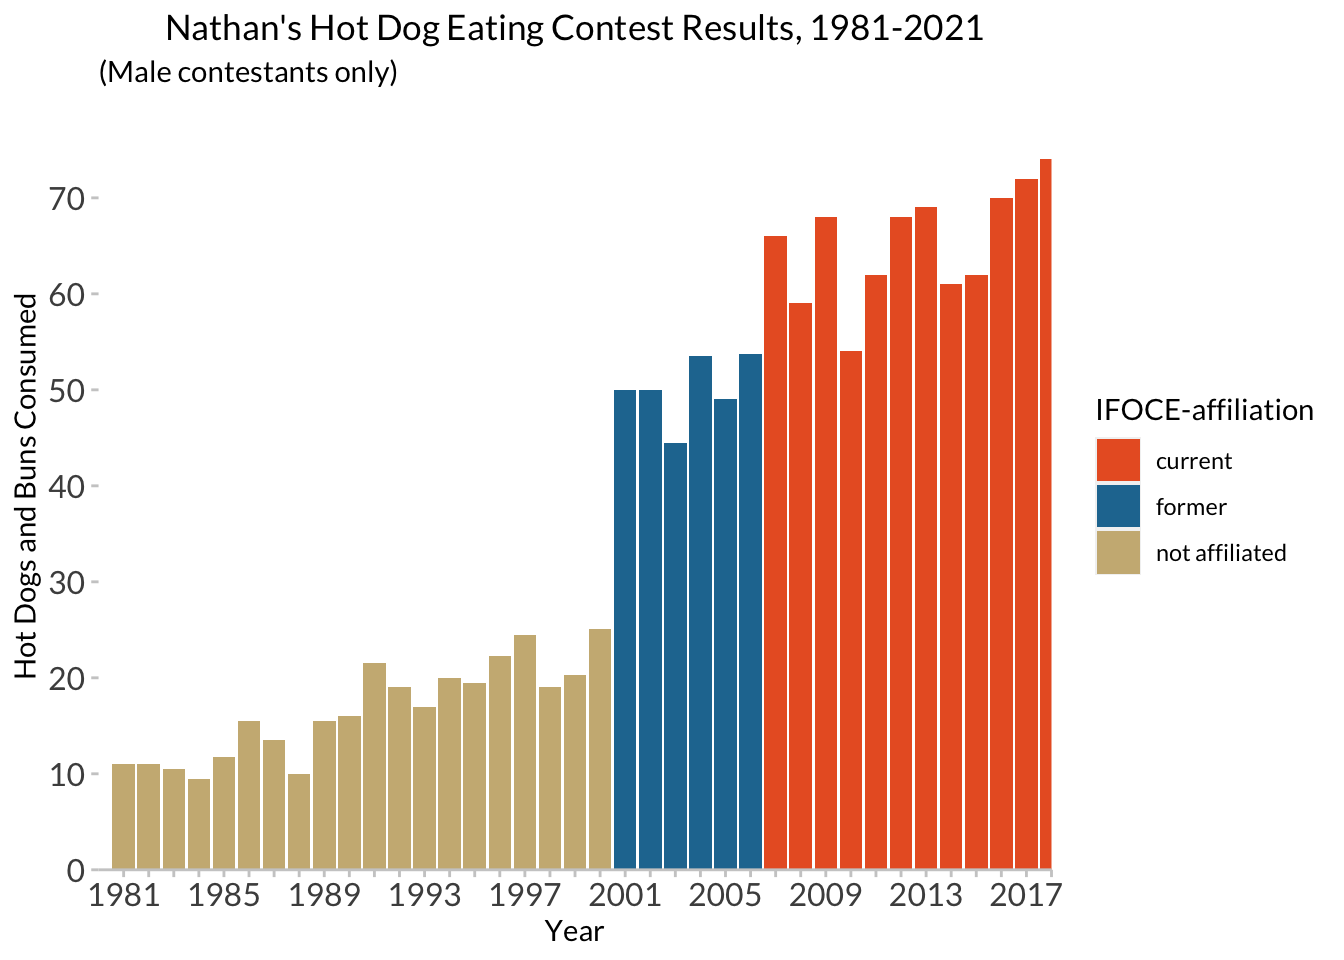
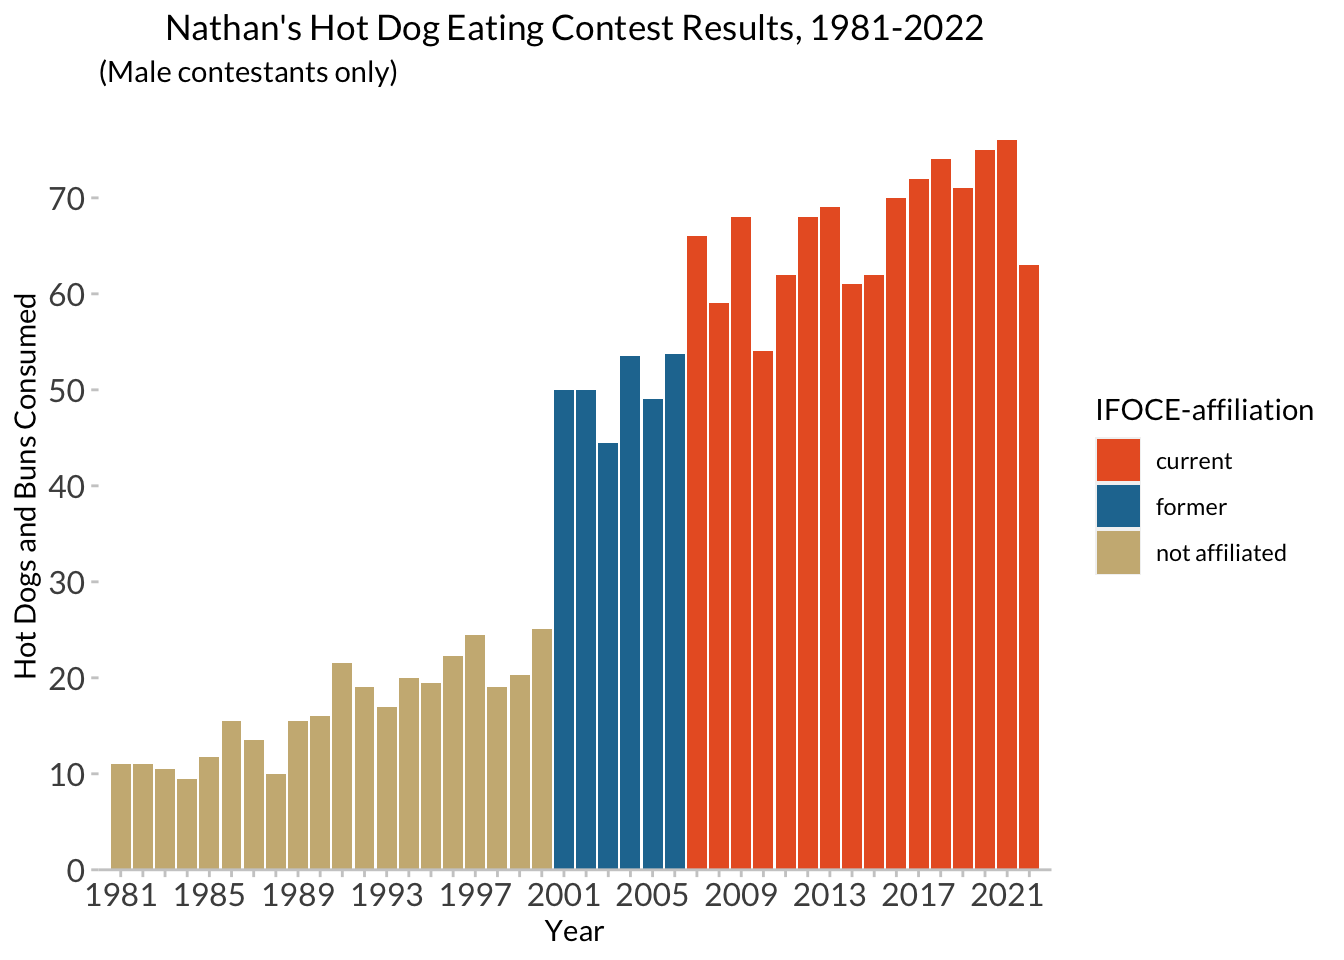
More updates

Changed region(s): [[0.0625, 0.1562, 0.7812, 0.9688], [0.7188, 0.0, 0.75, 0.0312]]

diff --git a/01-eda_hot_dogs.html b/01-eda_hot_dogs.html
@@ -444,27 +444,27 @@ read it in using <code>read_csv</code>, and along the way use
 <p>Check it out, once it is read in, and make sure it looks like
 this!</p>
 <pre class="r"><code>glimpse(hot_dogs)</code></pre>
-<pre><code>Rows: 57
+<pre><code>Rows: 59
 Columns: 4
-$ year      &lt;dbl&gt; 2021, 2021, 2020, 2020, 2019, 2019, 2018, 2018, 2017, 2017, 2016, 2016, 2015, 2015, 2014, 2014, 2013, …
-$ gender    &lt;fct&gt; male, female, male, female, male, female, male, female, male, female, male, female, male, female, male…
-$ name      &lt;chr&gt; &quot;Joey Chestnut&quot;, &quot;Michelle Lesco&quot;, &quot;Joey Chestnut&quot;, &quot;Miki Sudo&quot;, &quot;Joey Chestnut&quot;, &quot;Miki Sudo&quot;, &quot;Joey C…
-$ num_eaten &lt;dbl&gt; 76.000, 30.750, 75.000, 48.500, 71.000, 31.000, 74.000, 37.000, 72.000, 41.000, 70.000, 38.000, 62.000…</code></pre>
+$ year      &lt;dbl&gt; 2022, 2022, 2021, 2021, 2020, 2020, 2019, 2019, 2018, 2018, …
+$ gender    &lt;fct&gt; male, female, male, female, male, female, male, female, male…
+$ name      &lt;chr&gt; &quot;Joey Chestnut&quot;, &quot;Miki Sudo&quot;, &quot;Joey Chestnut&quot;, &quot;Michelle Les…
+$ num_eaten &lt;dbl&gt; 63.00, 40.00, 76.00, 30.75, 75.00, 48.50, 71.00, 31.00, 74.0…</code></pre>
 <pre class="r"><code>hot_dogs</code></pre>
-<pre><code># A tibble: 57 × 4
+<pre><code># A tibble: 59 × 4
     year gender name           num_eaten
    &lt;dbl&gt; &lt;fct&gt;  &lt;chr&gt;              &lt;dbl&gt;
- 1  2021 male   Joey Chestnut       76  
- 2  2021 female Michelle Lesco      30.8
- 3  2020 male   Joey Chestnut       75  
- 4  2020 female Miki Sudo           48.5
- 5  2019 male   Joey Chestnut       71  
- 6  2019 female Miki Sudo           31  
- 7  2018 male   Joey Chestnut       74  
- 8  2018 female Miki Sudo           37  
- 9  2017 male   Joey Chestnut       72  
-10  2017 female Miki Sudo           41  
-# … with 47 more rows</code></pre>
+ 1  2022 male   Joey Chestnut       63  
+ 2  2022 female Miki Sudo           40  
+ 3  2021 male   Joey Chestnut       76  
+ 4  2021 female Michelle Lesco      30.8
+ 5  2020 male   Joey Chestnut       75  
+ 6  2020 female Miki Sudo           48.5
+ 7  2019 male   Joey Chestnut       71  
+ 8  2019 female Miki Sudo           31  
+ 9  2018 male   Joey Chestnut       74  
+10  2018 female Miki Sudo           37  
+# … with 49 more rows</code></pre>
 <p>At this point, follow the HLO process and familiarize yourself with
 the columns and their contents. Questions to ask:</p>
 <ol style="list-style-type: decimal">
@@ -497,20 +497,20 @@ we’ll be focusing on males only, so let’s do some
   mutate(post_ifoce = year &gt;= 1997) %&gt;% 
   filter(year &gt;= 1981 &amp; gender == &#39;male&#39;)
 hot_dogs</code></pre>
-<pre><code># A tibble: 41 × 5
+<pre><code># A tibble: 42 × 5
     year gender name           num_eaten post_ifoce
    &lt;dbl&gt; &lt;fct&gt;  &lt;chr&gt;              &lt;dbl&gt; &lt;lgl&gt;     
- 1  2021 male   Joey Chestnut         76 TRUE      
- 2  2020 male   Joey Chestnut         75 TRUE      
- 3  2019 male   Joey Chestnut         71 TRUE      
- 4  2018 male   Joey Chestnut         74 TRUE      
- 5  2017 male   Joey Chestnut         72 TRUE      
- 6  2016 male   Joey Chestnut         70 TRUE      
- 7  2015 male   Matthew Stonie        62 TRUE      
- 8  2014 male   Joey Chestnut         61 TRUE      
- 9  2013 male   Joey Chestnut         69 TRUE      
-10  2012 male   Joey Chestnut         68 TRUE      
-# … with 31 more rows</code></pre>
+ 1  2022 male   Joey Chestnut         63 TRUE      
+ 2  2021 male   Joey Chestnut         76 TRUE      
+ 3  2020 male   Joey Chestnut         75 TRUE      
+ 4  2019 male   Joey Chestnut         71 TRUE      
+ 5  2018 male   Joey Chestnut         74 TRUE      
+ 6  2017 male   Joey Chestnut         72 TRUE      
+ 7  2016 male   Joey Chestnut         70 TRUE      
+ 8  2015 male   Matthew Stonie        62 TRUE      
+ 9  2014 male   Joey Chestnut         61 TRUE      
+10  2013 male   Joey Chestnut         69 TRUE      
+# … with 32 more rows</code></pre>
 </div>
 </div>
 <div id="plot-the-data" class="section level1" number="4">
@@ -637,14 +637,14 @@ after, and only for male competitors.</p>
   mutate(post_ifoce = year &gt;= 1997) %&gt;% 
   filter(year &gt;= 1981 &amp; gender == &quot;male&quot;) 
 glimpse(hdm_affil)</code></pre>
-<pre><code>Rows: 41
+<pre><code>Rows: 42
 Columns: 6
-$ year       &lt;dbl&gt; 2021, 2020, 2019, 2018, 2017, 2016, 2015, 2014, 2013, 2012, 2011, 2010, 2009, 2008, 2007, 2006, 2005,…
-$ gender     &lt;fct&gt; male, male, male, male, male, male, male, male, male, male, male, male, male, male, male, male, male,…
-$ name       &lt;chr&gt; &quot;Joey Chestnut&quot;, &quot;Joey Chestnut&quot;, &quot;Joey Chestnut&quot;, &quot;Joey Chestnut&quot;, &quot;Joey Chestnut&quot;, &quot;Joey Chestnut&quot;,…
-$ num_eaten  &lt;dbl&gt; 76.000, 75.000, 71.000, 74.000, 72.000, 70.000, 62.000, 61.000, 69.000, 68.000, 62.000, 54.000, 68.00…
-$ affiliated &lt;fct&gt; current, current, current, current, current, current, current, current, current, current, current, cu…
-$ post_ifoce &lt;lgl&gt; TRUE, TRUE, TRUE, TRUE, TRUE, TRUE, TRUE, TRUE, TRUE, TRUE, TRUE, TRUE, TRUE, TRUE, TRUE, TRUE, TRUE,…</code></pre>
+$ year       &lt;dbl&gt; 2022, 2021, 2020, 2019, 2018, 2017, 2016, 2015, 2014, 2013,…
+$ gender     &lt;fct&gt; male, male, male, male, male, male, male, male, male, male,…
+$ name       &lt;chr&gt; &quot;Joey Chestnut&quot;, &quot;Joey Chestnut&quot;, &quot;Joey Chestnut&quot;, &quot;Joey Ch…
+$ num_eaten  &lt;dbl&gt; 63.000, 76.000, 75.000, 71.000, 74.000, 72.000, 70.000, 62.…
+$ affiliated &lt;fct&gt; current, current, current, current, current, current, curre…
+$ post_ifoce &lt;lgl&gt; TRUE, TRUE, TRUE, TRUE, TRUE, TRUE, TRUE, TRUE, TRUE, TRUE,…</code></pre>
 <div class="panel panel-success">
 <div class="panel-heading">
 Challenge #4:
@@ -674,7 +674,7 @@ figure out how to sort the counts in descending order.</p>
   affiliated         n
   &lt;fct&gt;          &lt;int&gt;
 1 not affiliated    20
-2 current           15
+2 current           16
 3 former             6</code></pre>
 <p>Now let’s plot this new data, and fill the columns according to our
 new <code>affiliated</code> column.</p>
@@ -787,6 +787,11 @@ of the plot should look like.</p>
   theme(panel.background = element_blank()) +
   theme(axis.line.x = element_line(color = &quot;gray80&quot;, size = 0.5)) +
   theme(axis.ticks = element_line(color = &quot;gray80&quot;, size = 0.5))</code></pre>
+<pre><code>Warning: The `size` argument of `element_line()` is deprecated as of ggplot2 3.4.0.
+ℹ Please use the `linewidth` argument instead.
+This warning is displayed once every 8 hours.
+Call `lifecycle::last_lifecycle_warnings()` to see where this warning was
+generated.</code></pre>
 <p><img src="01-eda_hot_dogs_files/figure-html/unnamed-chunk-18-1.png" width="672" /></p>
 <div class="panel panel-info">
 <div class="panel-heading">
@@ -842,7 +847,8 @@ affil_plot +
   scale_x_continuous(expand = c(0, 0), 
                      breaks = hd_years$year,
                      labels = hd_years$year_lab)</code></pre>
-<pre><code>Scale for &#39;x&#39; is already present. Adding another scale for &#39;x&#39;, which will replace the existing scale.</code></pre>
+<pre><code>Scale for x is already present.
+Adding another scale for x, which will replace the existing scale.</code></pre>
 <p><img src="01-eda_hot_dogs_files/figure-html/unnamed-chunk-23-1.png" width="672" /></p>
 </div>
 <div id="final-final-final-version" class="section level1" number="10">
@@ -901,11 +907,17 @@ how it works.</p>
   annotate(&#39;segment&#39;, x=2015, xend=2015, y= 82, yend=79, size=0.5, color=&quot;#E9602B&quot;) +
   annotate(&#39;text&#39;, x=2015, y=86, label=&quot;MLE/IFOCE Current Member&quot;, color=&quot;#E9602B&quot;, family=&quot;Lato&quot;, hjust=0.5, size = 3)</code></pre>
 <pre><code>Warning: The `&lt;scale&gt;` argument of `guides()` cannot be `FALSE`. Use &quot;none&quot; instead as
-of ggplot2 3.3.4.</code></pre>
+of ggplot2 3.3.4.
+This warning is displayed once every 8 hours.
+Call `lifecycle::last_lifecycle_warnings()` to see where this warning was
+generated.</code></pre>
 <pre><code>Coordinate system already present. Adding new coordinate system, which will
 replace the existing one.</code></pre>
 <pre><code>Warning: Using `size` aesthetic for lines was deprecated in ggplot2 3.4.0.
-ℹ Please use `linewidth` instead.</code></pre>
+ℹ Please use `linewidth` instead.
+This warning is displayed once every 8 hours.
+Call `lifecycle::last_lifecycle_warnings()` to see where this warning was
+generated.</code></pre>
 <pre class="r"><code>nathan_ann</code></pre>
 <p><img src="01-eda_hot_dogs_files/figure-html/unnamed-chunk-25-1.png" width="672" /></p>
 <p>Finally, adding in another layer of data, including information about
@@ -918,14 +930,14 @@ female contestants:</p>
   mutate(post_ifoce = year &gt;= 1997) %&gt;% 
   filter(year &gt;= 1981 &amp; gender == &quot;female&quot;) 
 glimpse(hdm_females)</code></pre>
-<pre><code>Rows: 11
+<pre><code>Rows: 12
 Columns: 6
-$ year       &lt;dbl&gt; 2021, 2020, 2019, 2018, 2017, 2016, 2015, 2014, 2013, 2012, 2011
-$ gender     &lt;fct&gt; female, female, female, female, female, female, female, female, female, female, female
-$ name       &lt;chr&gt; &quot;Michelle Lesco&quot;, &quot;Miki Sudo&quot;, &quot;Miki Sudo&quot;, &quot;Miki Sudo&quot;, &quot;Miki Sudo&quot;, &quot;Miki Sudo&quot;, &quot;Miki Sudo&quot;, &quot;Miki…
-$ num_eaten  &lt;dbl&gt; 30.75, 48.50, 31.00, 37.00, 41.00, 38.00, 38.00, 34.00, 36.75, 45.00, 40.00
-$ affiliated &lt;fct&gt; current, current, current, current, current, current, current, current, current, current, current
-$ post_ifoce &lt;lgl&gt; TRUE, TRUE, TRUE, TRUE, TRUE, TRUE, TRUE, TRUE, TRUE, TRUE, TRUE</code></pre>
+$ year       &lt;dbl&gt; 2022, 2021, 2020, 2019, 2018, 2017, 2016, 2015, 2014, 2013,…
+$ gender     &lt;fct&gt; female, female, female, female, female, female, female, fem…
+$ name       &lt;chr&gt; &quot;Miki Sudo&quot;, &quot;Michelle Lesco&quot;, &quot;Miki Sudo&quot;, &quot;Miki Sudo&quot;, &quot;M…
+$ num_eaten  &lt;dbl&gt; 40.00, 30.75, 48.50, 31.00, 37.00, 41.00, 38.00, 38.00, 34.…
+$ affiliated &lt;fct&gt; current, current, current, current, current, current, curre…
+$ post_ifoce &lt;lgl&gt; TRUE, TRUE, TRUE, TRUE, TRUE, TRUE, TRUE, TRUE, TRUE, TRUE,…</code></pre>
 <pre class="r"><code>nathan_w_females &lt;- nathan_ann +
   # add in the female data, and manually set a fill color
   geom_col(data = hdm_females, 
